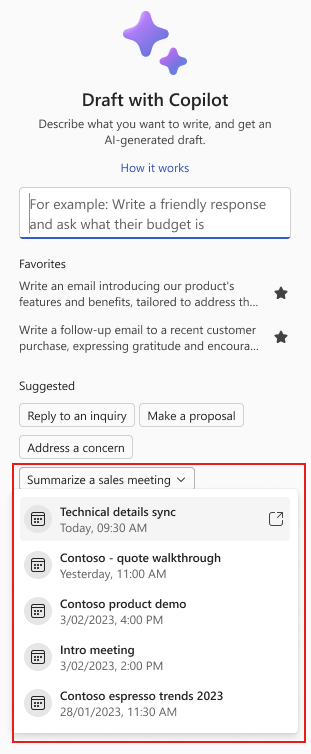
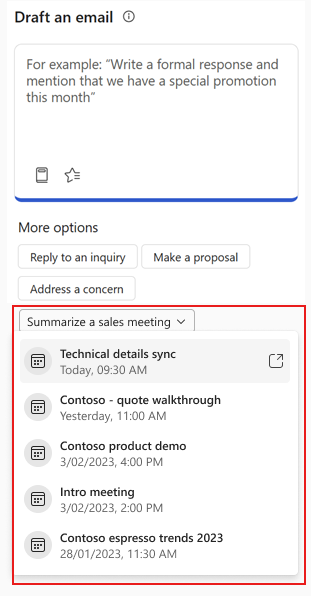
update

Changed region(s): [[0.0289, 0.0, 0.9839, 0.9966], [0.8682, 0.6644, 0.926, 0.7248]]

diff --git a/articles/use-copilot-kickstart-email-messages.md b/articles/use-copilot-kickstart-email-messages.md
@@ -404,7 +404,7 @@ With Copilot for Sales, you can summarize your most recent transcribed Teams mee
 
 1. On the **Highlights** tab, in the **Key email info** card, select **Draft an email**.
 
-    Under the **Suggested** section, select **Summarize a sales meeting**. Five recently transcribed meetings are displayed in the list. Select the meeting that you want to summarize.
+    Under the **More options** section, select **Summarize a sales meeting**. Five recently transcribed meetings are displayed in the list. Select the meeting that you want to summarize.
 
    > [!TIP]
    > You can hover over a meeting and select :::image type="icon" source="media/open-record.png" border="false"::: to open the meeting summary in Teams.
